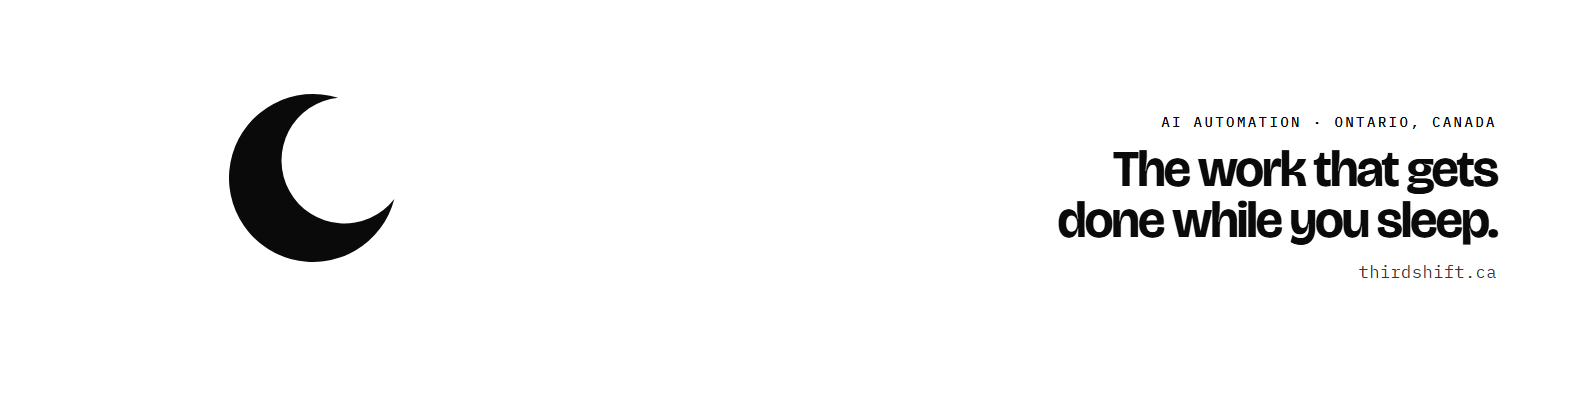
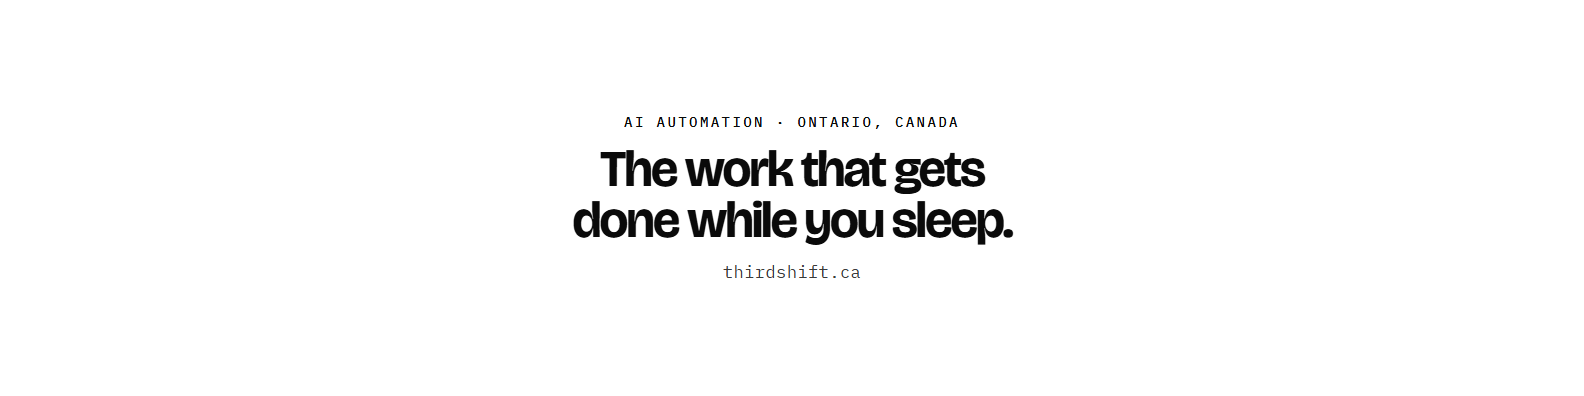
Covers without the crescent, text centred
On X the header's crescent sat right above the round profile picture, stacking two moons. The covers now carry only the kicker, the line and thirdshift.ca, centred (moon=0&align=center), which also survives each platform's crop.

diff --git a/tools/brand/art.html b/tools/brand/art.html
@@ -72,6 +72,8 @@ canvas { position: absolute; inset: 0; width: 100%; height: 100%; }
 .flat.mono { background: #FFFFFF; color: #0A0A0A; }
 .flat.mono .head em, .flat.mono .kicker { color: #0A0A0A; }
 .flat.mono .url { color: #3A3A3A; }
+/* align=center: the text block centred, for covers where the profile picture already carries the mark. */
+.banner .text.center { right: auto; left: 50%; translate: -50% -50%; text-align: center; justify-items: center; }
 
 .og .text { position: absolute; left: 7%; top: 50%; translate: 0 -50%; display: grid; justify-items: start; }
 .og .shade { position: absolute; inset: 0; background: linear-gradient(90deg, rgba(5, 9, 19, .82) 25%, rgba(5, 9, 19, .35) 58%, transparent 80%); }
@@ -241,10 +243,15 @@ function buildWordmark() {
 
 function buildBanner() {
   const flat = q.get("flat") === "1", mono = q.get("mono") === "1";
+  // moon=0 leaves the crescent off: on X and Facebook the profile picture sits over the cover's bottom
+  // left, so a second crescent there stacks two moons.
+  const noMoon = q.get("moon") === "0", centred = q.get("align") === "center";
   stage.className = "stage banner " + (flat ? "flat" : "night") + (mono ? " mono" : "");
   const u = H / 100;                         // 1% of height
   const tall = W / H < 4.2;
-  if (flat) {
+  if (flat && noMoon) {
+    // nothing beside the text
+  } else if (flat) {
     // Left of centre and above the middle, clear of where X and Facebook overlap the profile picture.
     const ms = Math.round(H * (tall ? .46 : .6));
     const m = sideMoon(ms, W * (tall ? .14 : .05), (H - ms) / 2 - H * (tall ? .05 : 0));
@@ -262,8 +269,8 @@ function buildBanner() {
   const head = el("h1", "head");
   head.append("The work that gets done while you ", el("em", null, "sleep."));
   const url = el("div", "url", "thirdshift.ca");
-  const text = el("div", "text", kick, head, url);
-  if (q.get("inset")) text.style.right = (+q.get("inset") * 100) + "%";
+  const text = el("div", "text" + (centred ? " center" : ""), kick, head, url);
+  if (q.get("inset") && !centred) text.style.right = (+q.get("inset") * 100) + "%";
   if (tall) {
     kick.style.fontSize = (u * 3.6) + "px";
     head.style.fontSize = (u * 13) + "px";

diff --git a/social-kit/README.md b/social-kit/README.md
@@ -16,7 +16,7 @@ Made by `node tools/render-brand.mjs` from `tools/brand/art.html`. Change the ar
 | `logo-mark.png` | The moon on its own, transparent | 1024 x 1024 |
 | `link-preview-1200x630.png` | The picture that shows when thirdshift.ca is shared in a post or message (already set on the site). Also good as a LinkedIn or Facebook post image. | 1200 x 630 |
 
-The covers, header and first post match it: black on white, flat, with the crescent, the line and "AI automation · Ontario, Canada". The website keeps its amber crescent and night colours.
+The covers and header match it: black on white, flat, the line centred with "AI automation · Ontario, Canada" and thirdshift.ca. They leave the crescent off, because X and Facebook place the profile picture over the cover's bottom left and two moons would stack. The first post keeps the crescent. The website keeps its amber crescent and night colours.
 
 Colours: night `#050913`, amber `#F2B055`, dawn `#FF8F4D`, light text `#ECF1F8`, navy text `#0B1222`.
 Type: Bricolage Grotesque (headings, logo), IBM Plex Mono (labels). Both free on Google Fonts.
